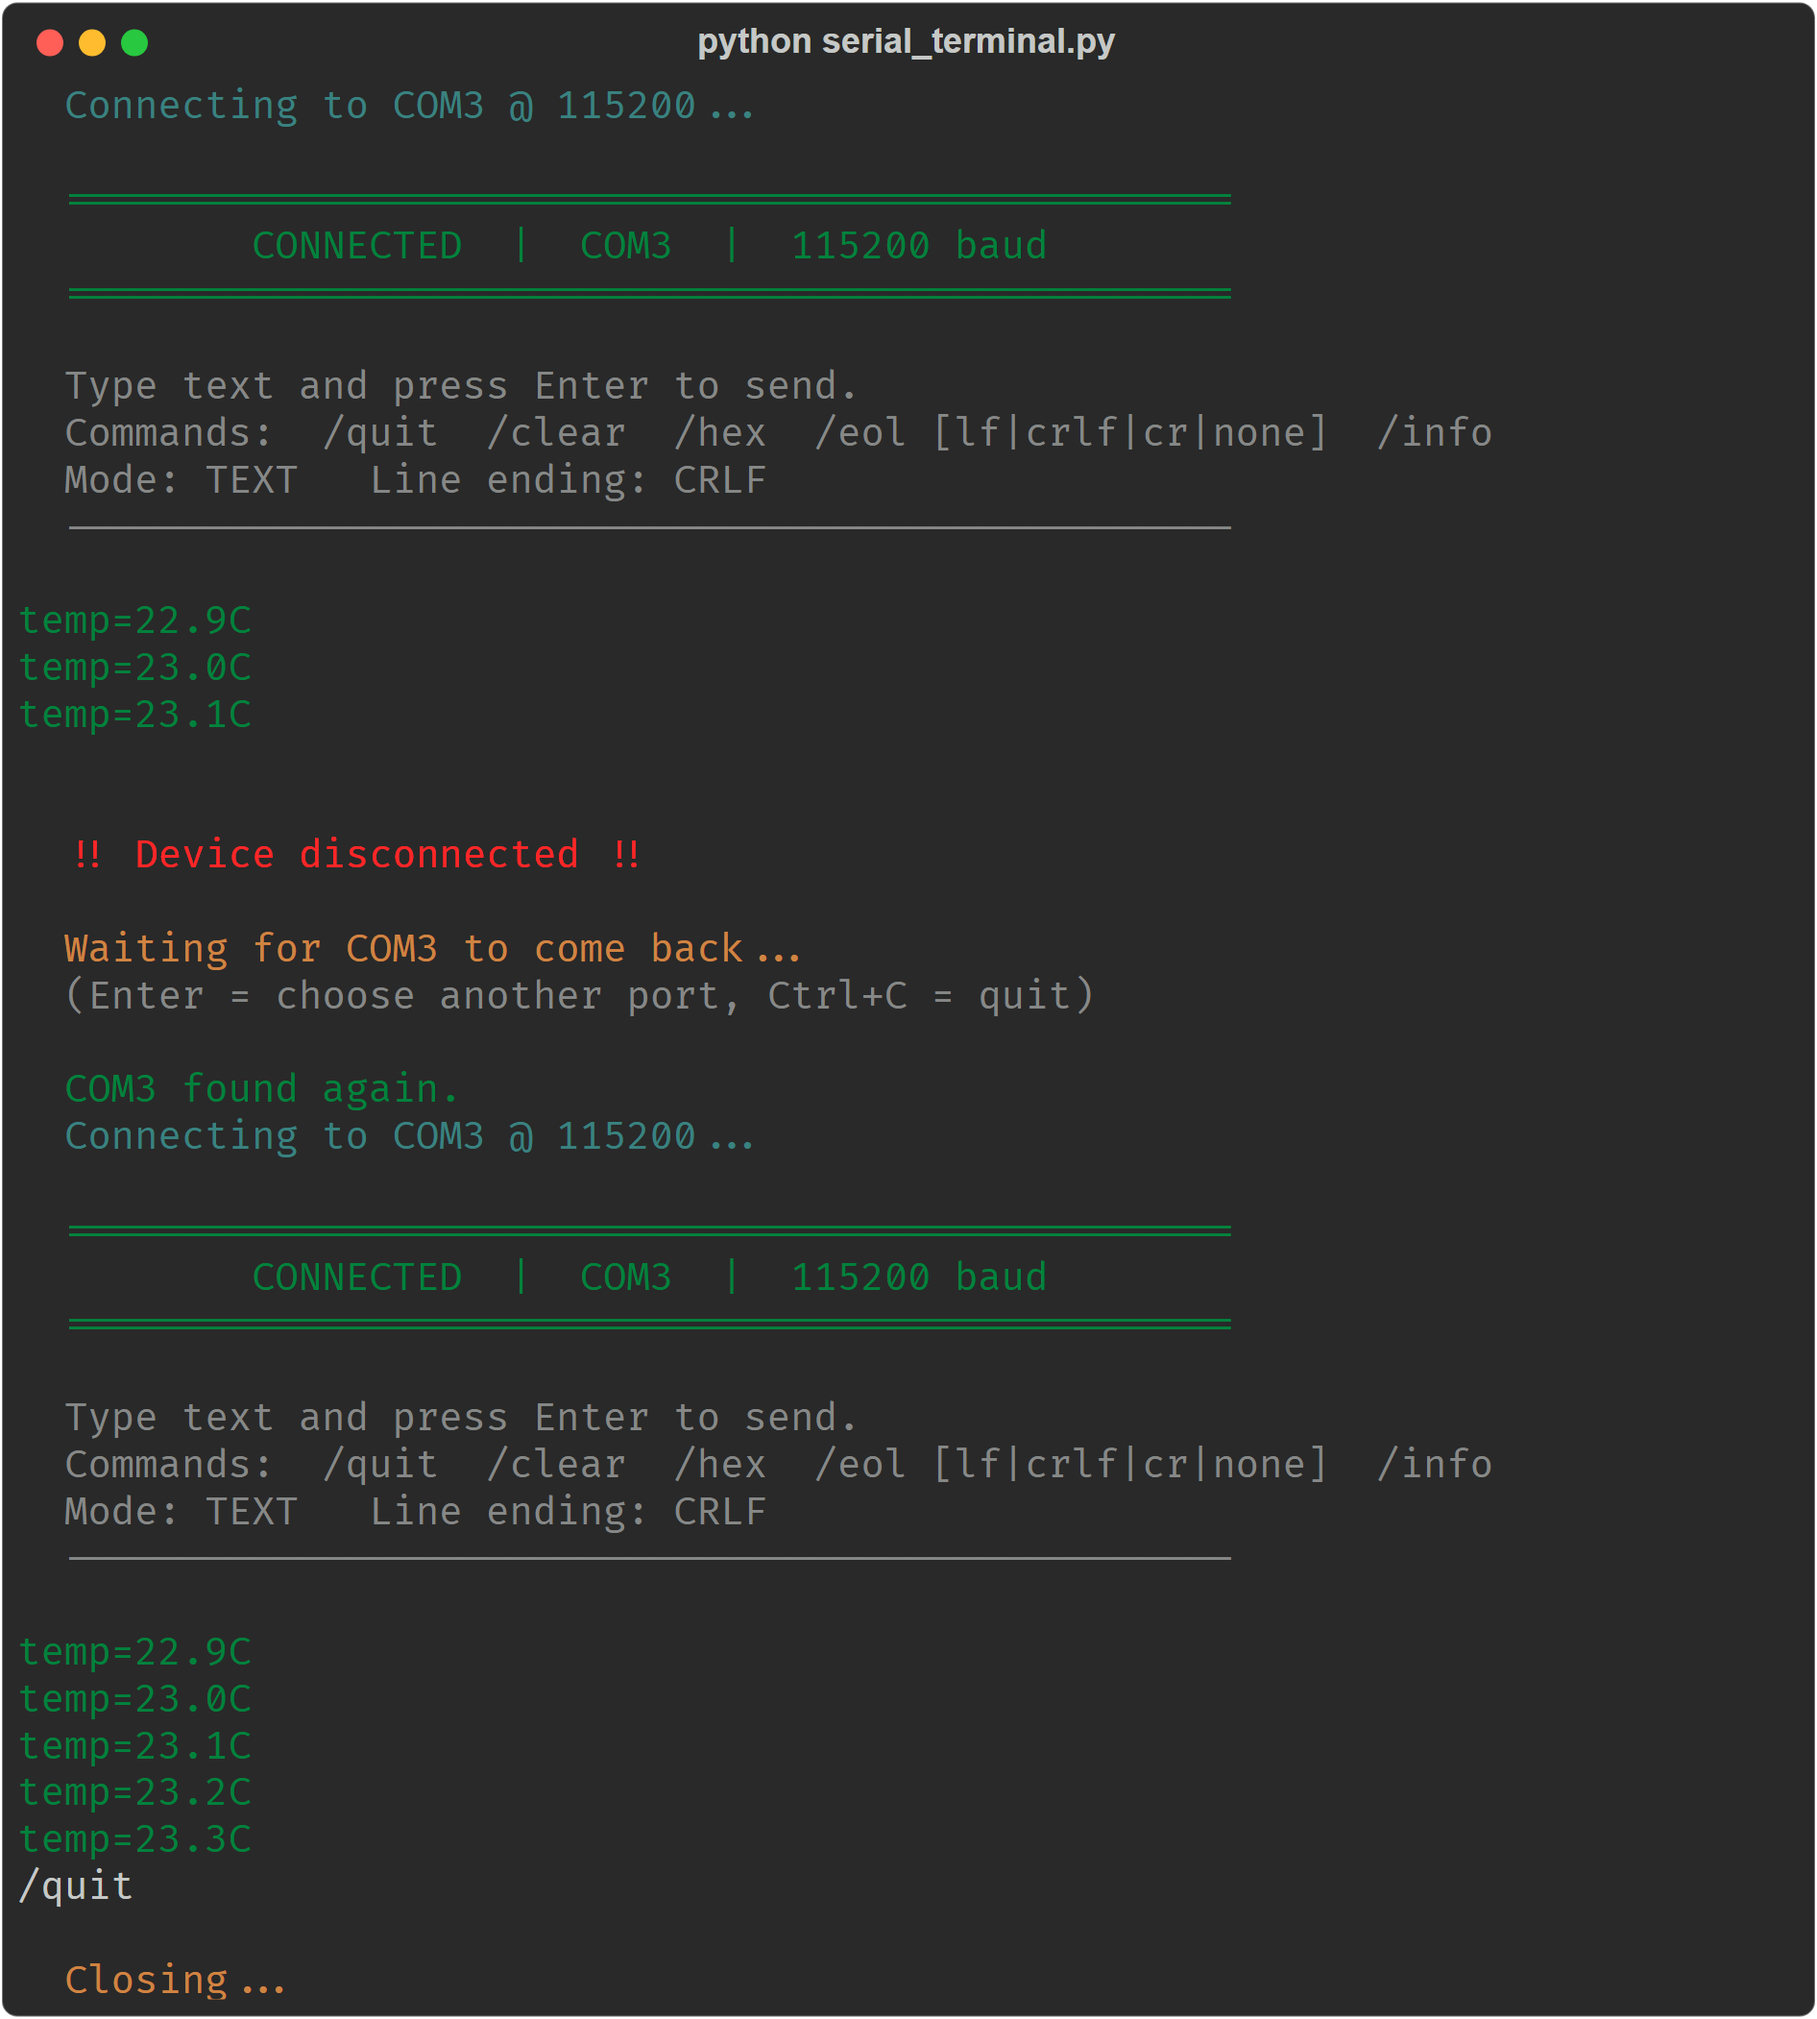
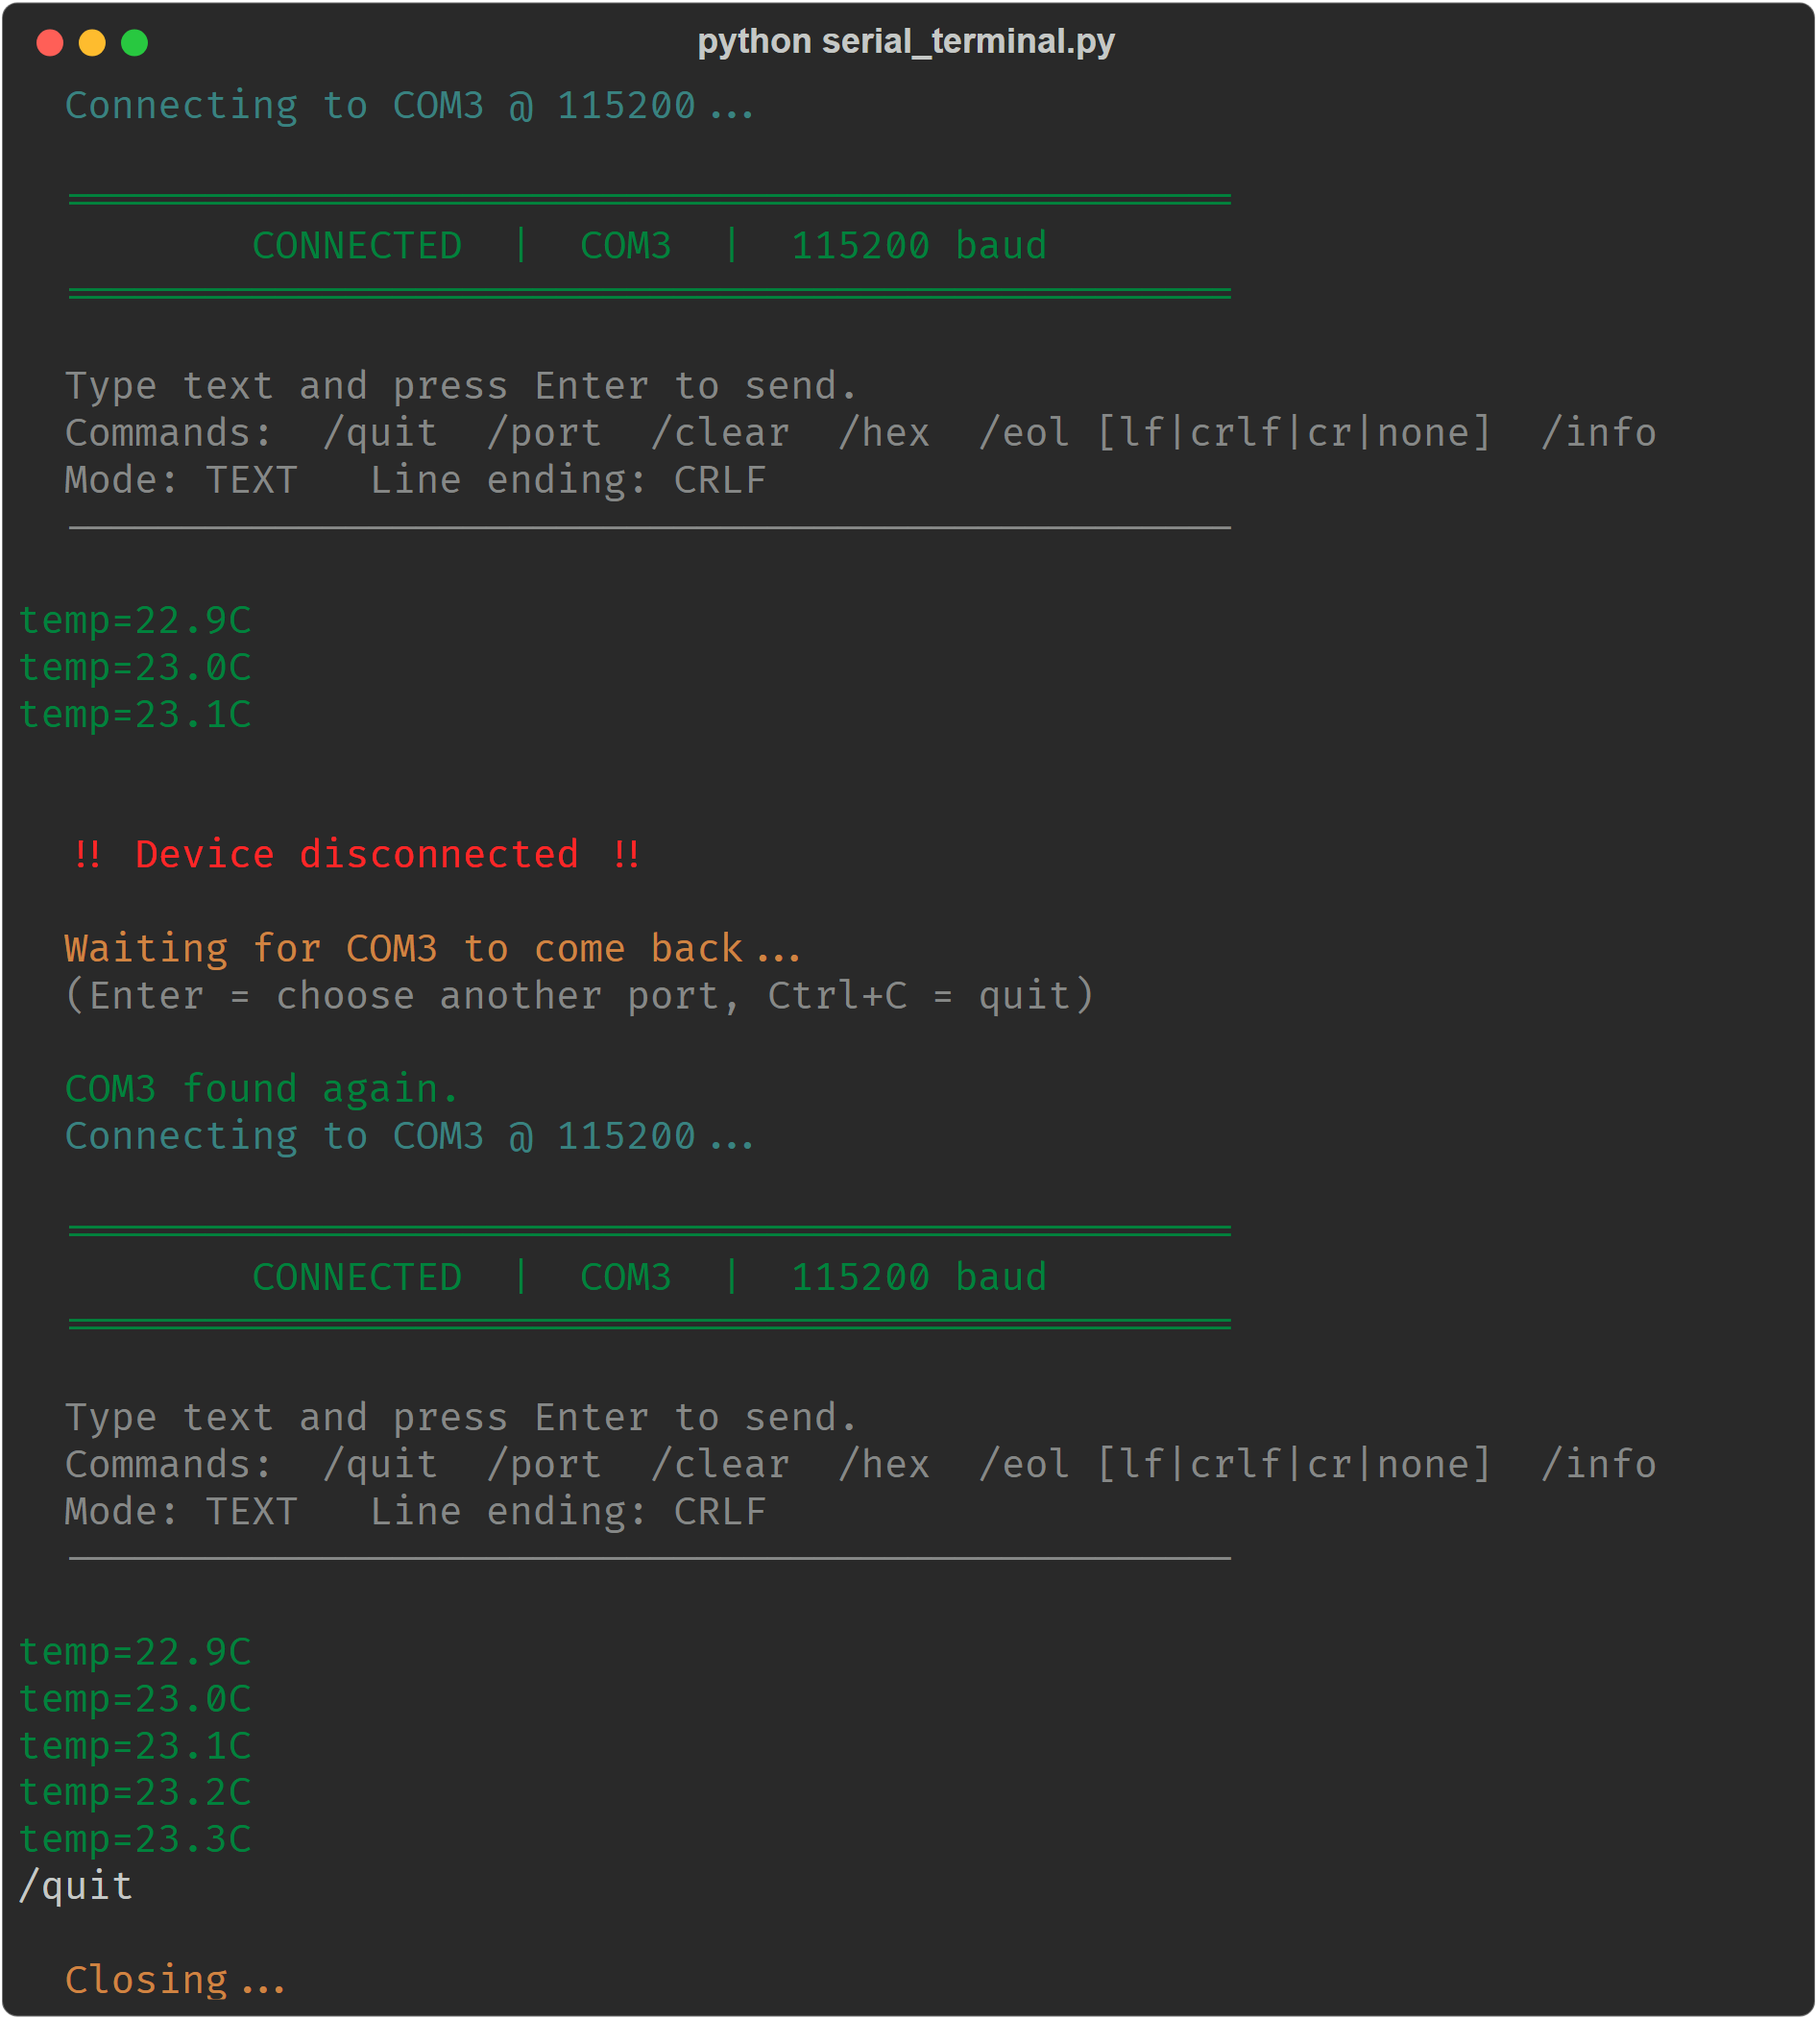
Add /port command to switch to another port
/port closes the current connection and returns to the port list. The
baud rate prompt then defaults to the rate that was in use, so pressing
Enter keeps it. Screenshots and README updated.

diff --git a/serial_terminal.py b/serial_terminal.py
@@ -257,12 +257,12 @@ def select_port():
 
 # === Step 2: Select a baud rate ===========================================
 
-def select_baud():
-    """Shows the list of baud rates and reads the choice."""
+def select_baud(default=DEFAULT_BAUD):
+    """Shows the list of baud rates and reads the choice. Enter selects default."""
     print(f"  {C['yellow']}Standard baud rates:{C['reset']}\n")
     per_row = 4
     for i, baud in enumerate(COMMON_BAUD_RATES, 1):
-        marker = f"{C['magenta']}*{C['reset']}" if baud == DEFAULT_BAUD else " "
+        marker = f"{C['magenta']}*{C['reset']}" if baud == default else " "
         end = "\n" if i % per_row == 0 else ""
         print(f"    {marker} {C['green']}{i:>2}.{C['reset']} {baud:<10}", end=end)
     if len(COMMON_BAUD_RATES) % per_row != 0:
@@ -272,12 +272,12 @@ def select_baud():
     while True:
         prompt(
             f"  {C['cyan']}> Select a baud rate [1-{len(COMMON_BAUD_RATES)}] "
-            f"or enter a custom one (Enter = {DEFAULT_BAUD}): {C['reset']}"
+            f"or enter a custom one (Enter = {default}): {C['reset']}"
         )
         choice = read_line().strip()
         try:
             if not choice:
-                baud = DEFAULT_BAUD
+                baud = default
             else:
                 num = int(choice)
                 if 1 <= num <= len(COMMON_BAUD_RATES):
@@ -384,7 +384,7 @@ def session_header(port, baud, settings):
     print(f"  {'=' * w}{C['reset']}")
     print()
     print(f"  {C['dim']}Type text and press Enter to send.")
-    print(f"  Commands:  /quit  /clear  /hex  /eol [lf|crlf|cr|none]  /info")
+    print(f"  Commands:  /quit  /port  /clear  /hex  /eol [lf|crlf|cr|none]  /info")
     print(f"  Mode: {'HEX' if settings['hex'] else 'TEXT'}   "
           f"Line ending: {settings['eol'].upper()}{C['reset']}")
     print(f"  {C['dim']}{'-' * w}{C['reset']}")
@@ -398,6 +398,7 @@ def run_session(port, baud, settings, open_attempts=1):
     Returns:
         'disconnected' - the device was unplugged during the session
         'failed'       - the port could not be opened
+        'switch'       - the user wants to choose another port (/port)
         'quit'         - the user wants to exit
     """
     print(f"  {C['cyan']}Connecting to {port} @ {baud}...{C['reset']}")
@@ -469,6 +470,12 @@ def run_session(port, baud, settings, open_attempts=1):
             if cmd == "/quit":
                 print(f"\n  {C['yellow']}Closing...{C['reset']}")
                 result = "quit"
+                break
+
+            elif cmd == "/port":
+                show(f"\n  {C['yellow']}Closing {port}, back to port selection...{C['reset']}")
+                print(f"  {C['dim']}{'=' * BOX_W}{C['reset']}\n")
+                result = "switch"
                 break
 
             elif cmd == "/clear":
@@ -560,10 +567,11 @@ def main():
     """
     banner()
     settings = {"eol": "lf", "hex": False}
+    baud = DEFAULT_BAUD
     try:
         while True:
             port = select_port()
-            baud = select_baud()
+            baud = select_baud(default=baud)
 
             result = run_session(port, baud, settings)
             while result == "disconnected" and wait_for_port(port):
@@ -571,7 +579,7 @@ def main():
 
             if result == "quit":
                 break
-            # 'failed' or waiting cancelled -> back to port selection
+            # 'switch', 'failed' or waiting cancelled -> back to port selection
     except (KeyboardInterrupt, EOFError):
         print()
 

diff --git a/README.md b/README.md
@@ -56,6 +56,7 @@ python serial_terminal.py
 | Command | Description |
 |---|---|
 | `/quit` | Close the connection and exit |
+| `/port` | Close the connection and go back to the port list (the current baud rate becomes the `Enter` default) |
 | `/clear` | Clear the screen and redraw the connection header with the commands |
 | `/hex` | Toggle HEX mode for sending **and** receiving |
 | `/eol` | Show the current line ending |
